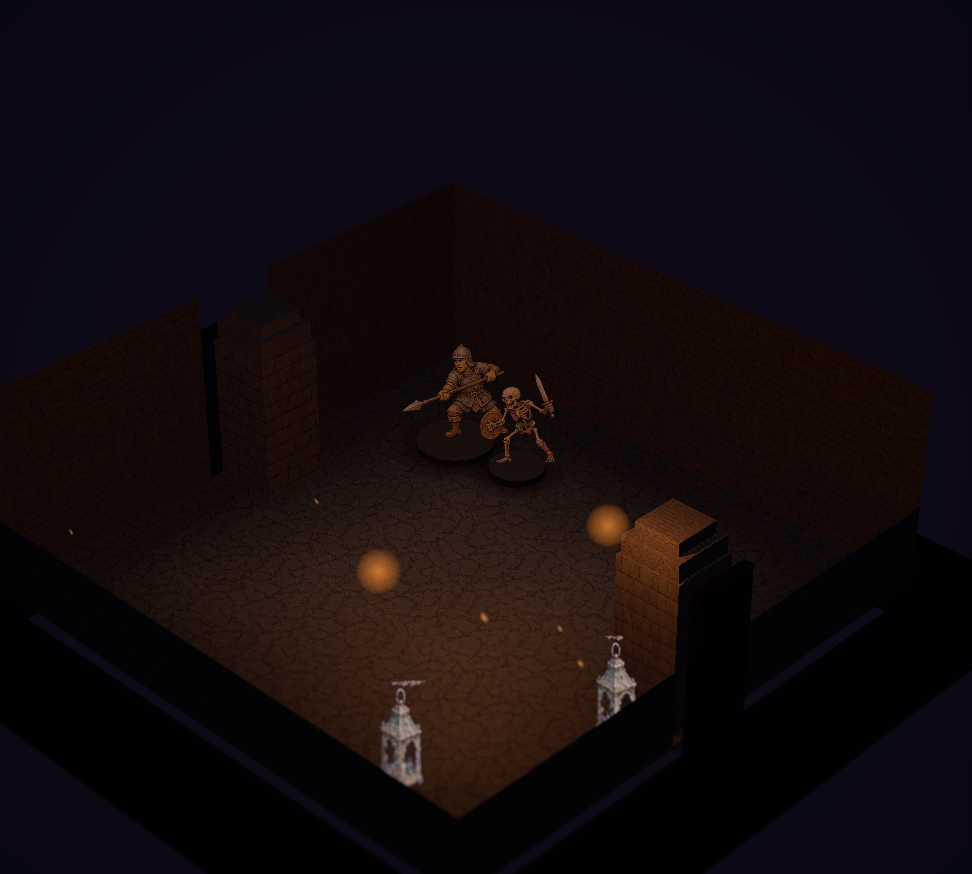
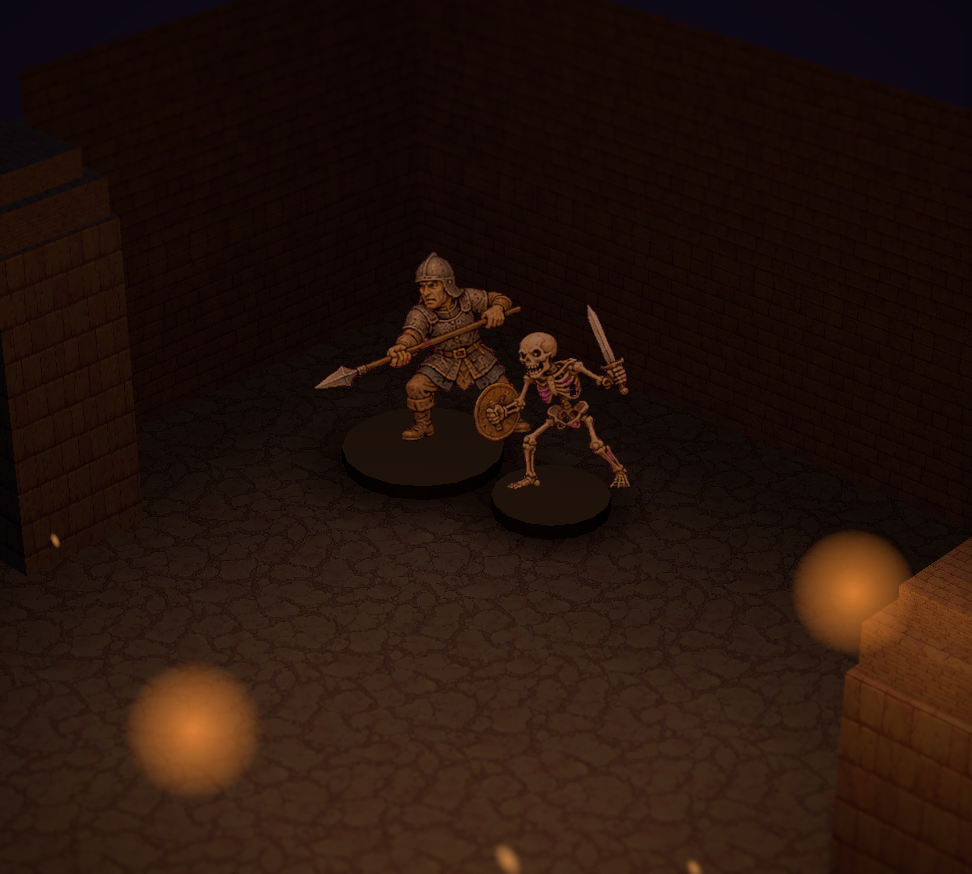
fix(theater): A3 round 2 — composed fit crops to the action-cluster extent (Stage-A figure-height gate)
Coordinator read of the round-1 after-composed capture: the composed shot re-centered the pair
correctly but zoomed WIDER, not tighter — a medium standee dropped to ~13% frame height (below
the 18-25% gate), void-heavy, looser than the focusRect fit.

Root cause: fitFromComposedCamera sized the fit box from the composed camera's own
distance*tan(fovY/2) — the FULL frustum half-height (the whole framed region). Re-fitting that
box through placeCamera (which fits a floor box to ~94% of frame on the 45°-yawed footprint,
~1.41x wider, max-axis) reproduced a wide view and lost the tight figure size composeShot's own
medium-figure constraint had already validated.

Fix: fitFromComposedShot frames the ACTUAL action-cluster EXTENT — the ShotPlan's living-piece
positions (falling back to the player/threat/objective anchors, then to focusRect) — by reusing
interiorCameraFitFor's proven "beat" branch (the exact tight-crop capture-beat-camera.mjs
validates at >=18%). composeShot still runs, still records its chosen pose/metrics, and still
governs the fallback (metrics.allRejected -> focusRect); it just no longer sizes the box from a
full-frustum distance. Behind ITR_SHOT_COMPOSE with the focusRect fallback unchanged.

Added a test-only seam (variant.shotComposeWideBoxForTest, default OFF) that reproduces the
superseded wide box so the new figure-height check has a genuine reproducible red-first.
[…]

Changed region(s): [[0.0, 0.278, 1.0, 1.0], [0.3704, 0.6178, 0.4321, 0.6796], [0.0, 0.278, 0.0617, 0.3089]]

diff --git a/src/ui/theater-boot.js b/src/ui/theater-boot.js
@@ -7456,30 +7456,66 @@ function shotProjectFor(cameraPose){
 // naming the spec calls for while still satisfying composeShot's real signature.
 function shotProjectTwoArg(worldPt, cameraPose){ return shotProjectFor(cameraPose)(worldPt); }
 
-// fitFromComposedCamera — converts a composeShot-chosen `camera` (yaw/pitch/fov/target/distance) into
-// the exact {center,halfX,halfZ} shape interiorCameraFitFor already returns (setInteriorBoard assigns
-// it straight to S.boardCenter/S.boardHalfX/S.boardHalfZ either way, so this is a drop-in alternate
-// source for that shape, not a second code path downstream of it). `target` -> `center` (shifted into
-// the SAME cx/cz-local frame every mounted instance uses, mirroring interiorCameraFitFor's own "beat"
-// branch). `distance`+`fov` -> a symmetric half-extent: the visible half-height at the target plane
-// under that distance/FOV (distance*tan(halfFovY) — the exact inverse of theater-shot.js's own
-// distanceFor(), which solves distance FROM a desired visible height/radius the same way), fed back
-// through interiorCameraFitFor's existing consumer (placeCamera's own screenHalfWidth/Height fit
-// math, S.zoomLevel, the exact-containment correction loop) exactly like a "room"/"beat" fit's own
-// halfX/halfZ already are — composeShot's pose is a FRAMING target, not a literal camera transform;
-// interiorCameraFitFor's box is that framing target's box.
-function fitFromComposedCamera(camera, cx, cz){
+/* fitFromComposedShot — converts a composed shot into the exact {center,halfX,halfZ} shape
+   interiorCameraFitFor already returns (setInteriorBoard assigns it straight to
+   S.boardCenter/S.boardHalfX/S.boardHalfZ either way, so this is a drop-in alternate source for that
+   shape, not a second code path downstream of it).
+
+   ROUND 2 FIX (coordinator read of the after-composed capture): the earlier version derived the box
+   half-extent from the composed camera's OWN `distance*tan(fovY/2)` — the full frustum half-height at
+   the target plane, i.e. the WHOLE framed region. Re-fitting THAT box back through placeCamera (which
+   fits a floor box to ~94% of frame, on the 45°-yawed footprint whose screen projection is ~1.41x
+   wider, taking the LARGER of the width/height axes) reproduced a WIDE view and dropped a medium
+   standee to ~13% of frame height — LOOSER than the plain focusRect fit and void-heavy, failing the
+   Stage-A gate ("medium standee 18-25% frame height, minimal dead frame"). The distance→box conversion
+   was the lossy step: composeShot's chosen distance already validated the figure at 18-25% for ITS
+   pose, but placeCamera's box-fit doesn't reproduce that pose from a full-frustum box.
+
+   The fix frames the ACTUAL ACTION-CLUSTER EXTENT instead — the participant/piece positions the
+   ShotPlan already carries — by REUSING interiorCameraFitFor's own "beat" branch, the exact tight-crop
+   path dev/battle-gate/capture-beat-camera.mjs already proved lands a medium standee >=18% frame
+   height. composeShot still runs and still governs the fallback (its metrics.allRejected -> focusRect,
+   below) and still records its chosen pose/metrics for the harness — it just no longer sizes the box
+   from a full-frustum distance; the cluster's own extent (+ the beat margin) sizes it, faithfully
+   reproducing the tight framing composeShot's medium-figure constraint had validated.
+
+   Cells come from the ShotPlan's LIVING pieces (combat units + staged cast cards — all carry
+   living:true, and x/z in the SAME raw pre-shift cell frame `fit`/cx/cz use). Absent any (a pure
+   environment tray with no encounter), falls back to the resolved anchors (player/threat/objective);
+   absent even those, returns null so the caller drops to the plain focusRect room fit. */
+function fitFromComposedShot(shotPlan, fit, cx, cz){
+  if(!shotPlan) return null;
+  const cells = [];
+  (shotPlan.pieces || []).forEach(function(p){
+    if(p && p.living && typeof p.x === "number" && typeof p.z === "number") cells.push({ x: p.x, y: p.z });
+  });
+  if(!cells.length){
+    const a = shotPlan.anchors || {};
+    [a.player, a.primaryThreat, a.objective].forEach(function(an){
+      if(an && typeof an.x === "number" && typeof an.z === "number") cells.push({ x: an.x, y: an.z });
+    });
+  }
+  if(!cells.length) return null; // no action cluster -> the caller's focusRect room fallback fires
+  // interiorCameraFitFor's beat branch never reads `fit` when cells are present+finite; passing the
+  // real `fit` only feeds its internal degenerate-cells fallback, so this is safe either way.
+  return interiorCameraFitFor({ mode: "beat", cells: cells }, fit, cx, cz);
+}
+
+// STAGE-A A3 — TEST-ONLY SEAM (default OFF): the SUPERSEDED full-frustum box (halfExtent =
+// distance*tan(fovY/2), the whole framed region) the round-1 build shipped and the coordinator's own
+// after-composed read flagged as too WIDE (medium standee dropped to ~13% frame height, void-heavy).
+// Kept ONLY so dev/verify-shot-compose.mjs can flip `variant.shotComposeWideBoxForTest` on for a
+// GENUINE, reproducible RED-FIRST baseline of the figure-height check (proving that check catches the
+// loose framing), then flip it off (the default) for the tight, gate-passing green. No product caller
+// ever sets that flag — production always takes fitFromComposedShot's action-cluster crop above.
+function fitFromComposedCameraWideForTest(camera, cx, cz){
   if(!camera) return null;
   const target = camera.target || { x: 0, z: 0 };
   const tx = shotNumOr(target.x, 0), tz = shotNumOr(target.z, 0);
   const fovRad = (shotNumOr(camera.fov, 20) * Math.PI) / 180;
   const distance = Math.max(0.1, shotNumOr(camera.distance, 6));
   const halfExtent = Math.max(0.5, distance * Math.tan(fovRad / 2));
-  return {
-    center: new THREE.Vector3(tx - cx, 0, tz - cz),
-    halfX: halfExtent,
-    halfZ: halfExtent
-  };
+  return { center: new THREE.Vector3(tx - cx, 0, tz - cz), halfX: halfExtent, halfZ: halfExtent };
 }
 
 // ─── BEAUTY-WAVE-2.md BW2-1b (THE OCCLUSION LAW), item 1 — DYNAMIC CUTAWAY for interior columns/
@@ -7866,8 +7902,10 @@ function setInteriorBoard(data){
      focusRect path below, behind ITR_SHOT_COMPOSE (default ON — see that const's own header comment
      for why it's read off `variant.shotCompose` rather than a bare module flag). shotPlanFrom/
      composeShot are pure and never touch S.*; this block is the ONLY place their output is allowed to
-     reach the render, and only ever by way of `camFit` below — the EXACT {center,halfX,halfZ} shape
-     interiorCameraFitFor already returns, so every downstream consumer (placeCamera/
+     reach the render, and only ever by way of `camFit` below (via fitFromComposedShot — see its own
+     header for why the fit frames the action-cluster EXTENT, reusing interiorCameraFitFor's proven
+     beat crop, rather than the composed camera's full-frustum distance) — the EXACT {center,halfX,
+     halfZ} shape interiorCameraFitFor already returns, so every downstream consumer (placeCamera/
      placeCameraTweened, the exact-containment correction loop, S.zoomLevel) is untouched either way.
      FALLBACK EVERYWHERE (byte-identical to pre-unit behavior): `camFit` stays null — falling through
      to the pre-existing `interiorCameraFitFor(data.cameraFit, fit, cx, cz)` call, unchanged — when the
@@ -7900,7 +7938,12 @@ function setInteriorBoard(data){
       const composed = composeShot(shotPlan, candidates, shotProjectTwoArg);
       S.lastComposedShotAttempt = composed;
       if(composed && composed.camera && !(composed.metrics && composed.metrics.allRejected)){
-        const composedFit = fitFromComposedCamera(composed.camera, cx, cz);
+        // production: the action-cluster crop (fitFromComposedShot). Test-only: the superseded wide
+        // full-frustum box, only when a harness flips variant.shotComposeWideBoxForTest for its own
+        // figure-height RED-FIRST baseline (see fitFromComposedCameraWideForTest's header).
+        const composedFit = variant.shotComposeWideBoxForTest
+          ? fitFromComposedCameraWideForTest(composed.camera, cx, cz)
+          : fitFromComposedShot(shotPlan, fit, cx, cz);
         if(composedFit){
           camFit = composedFit;
           S.lastComposedShot = composed;
